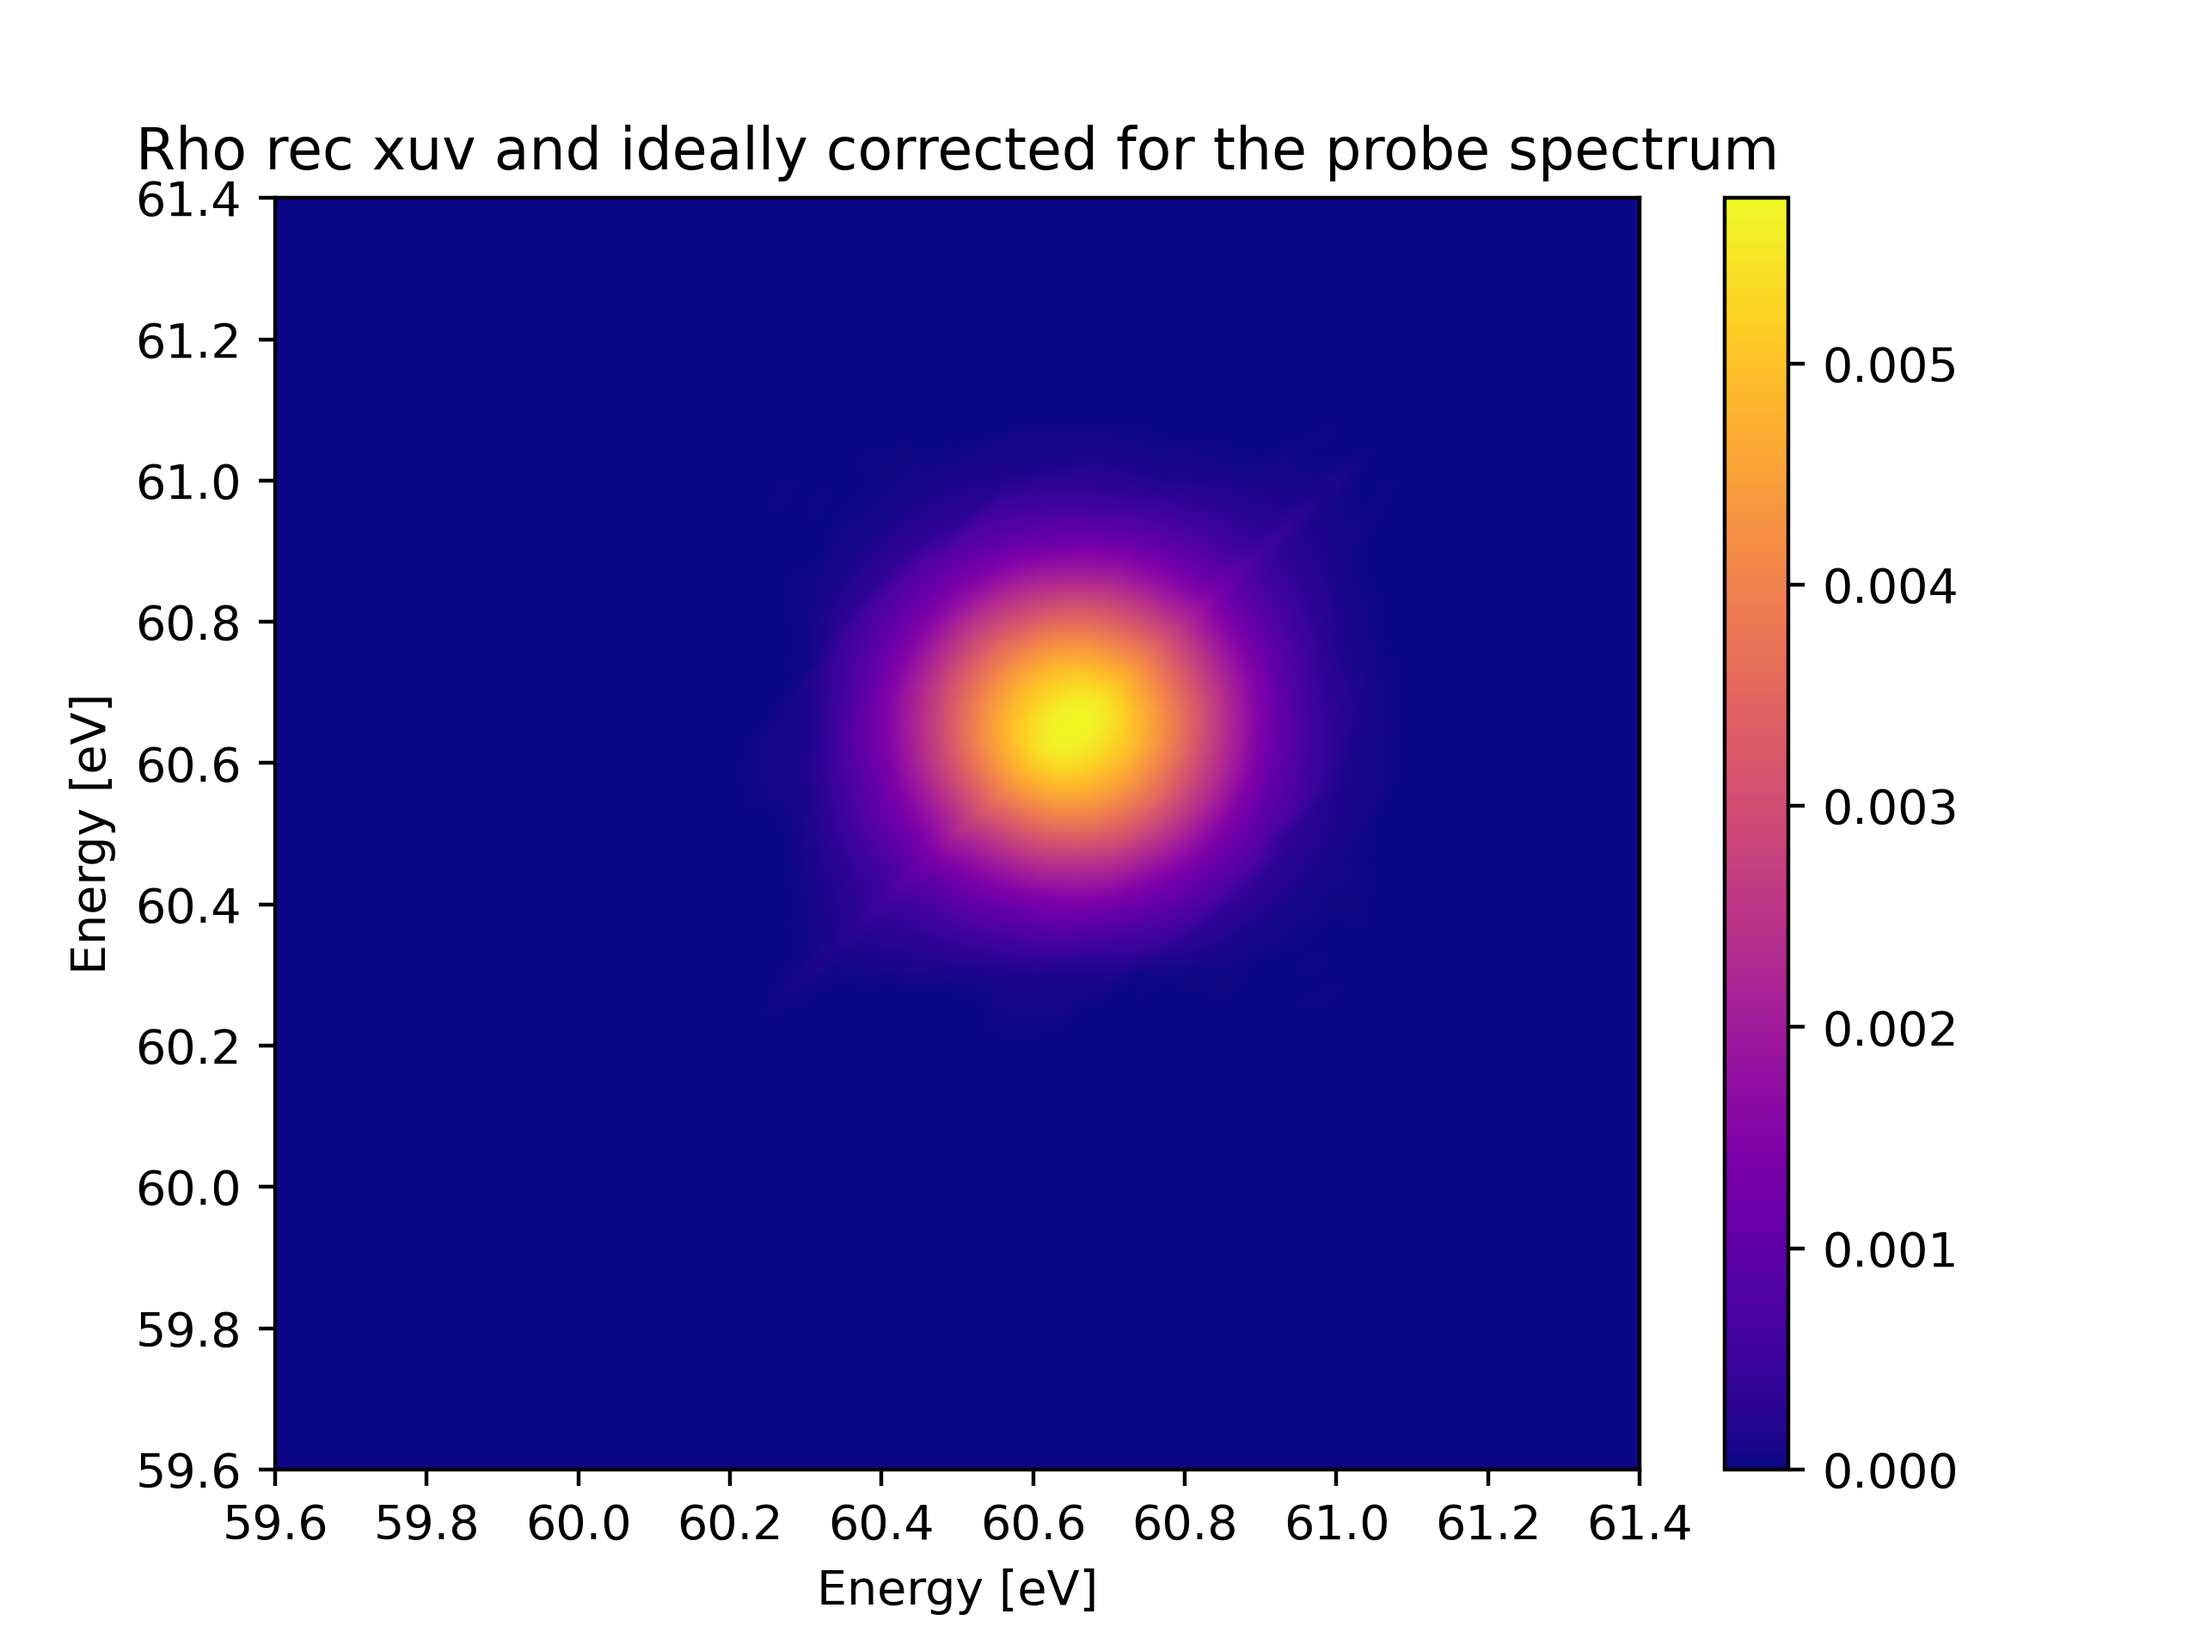
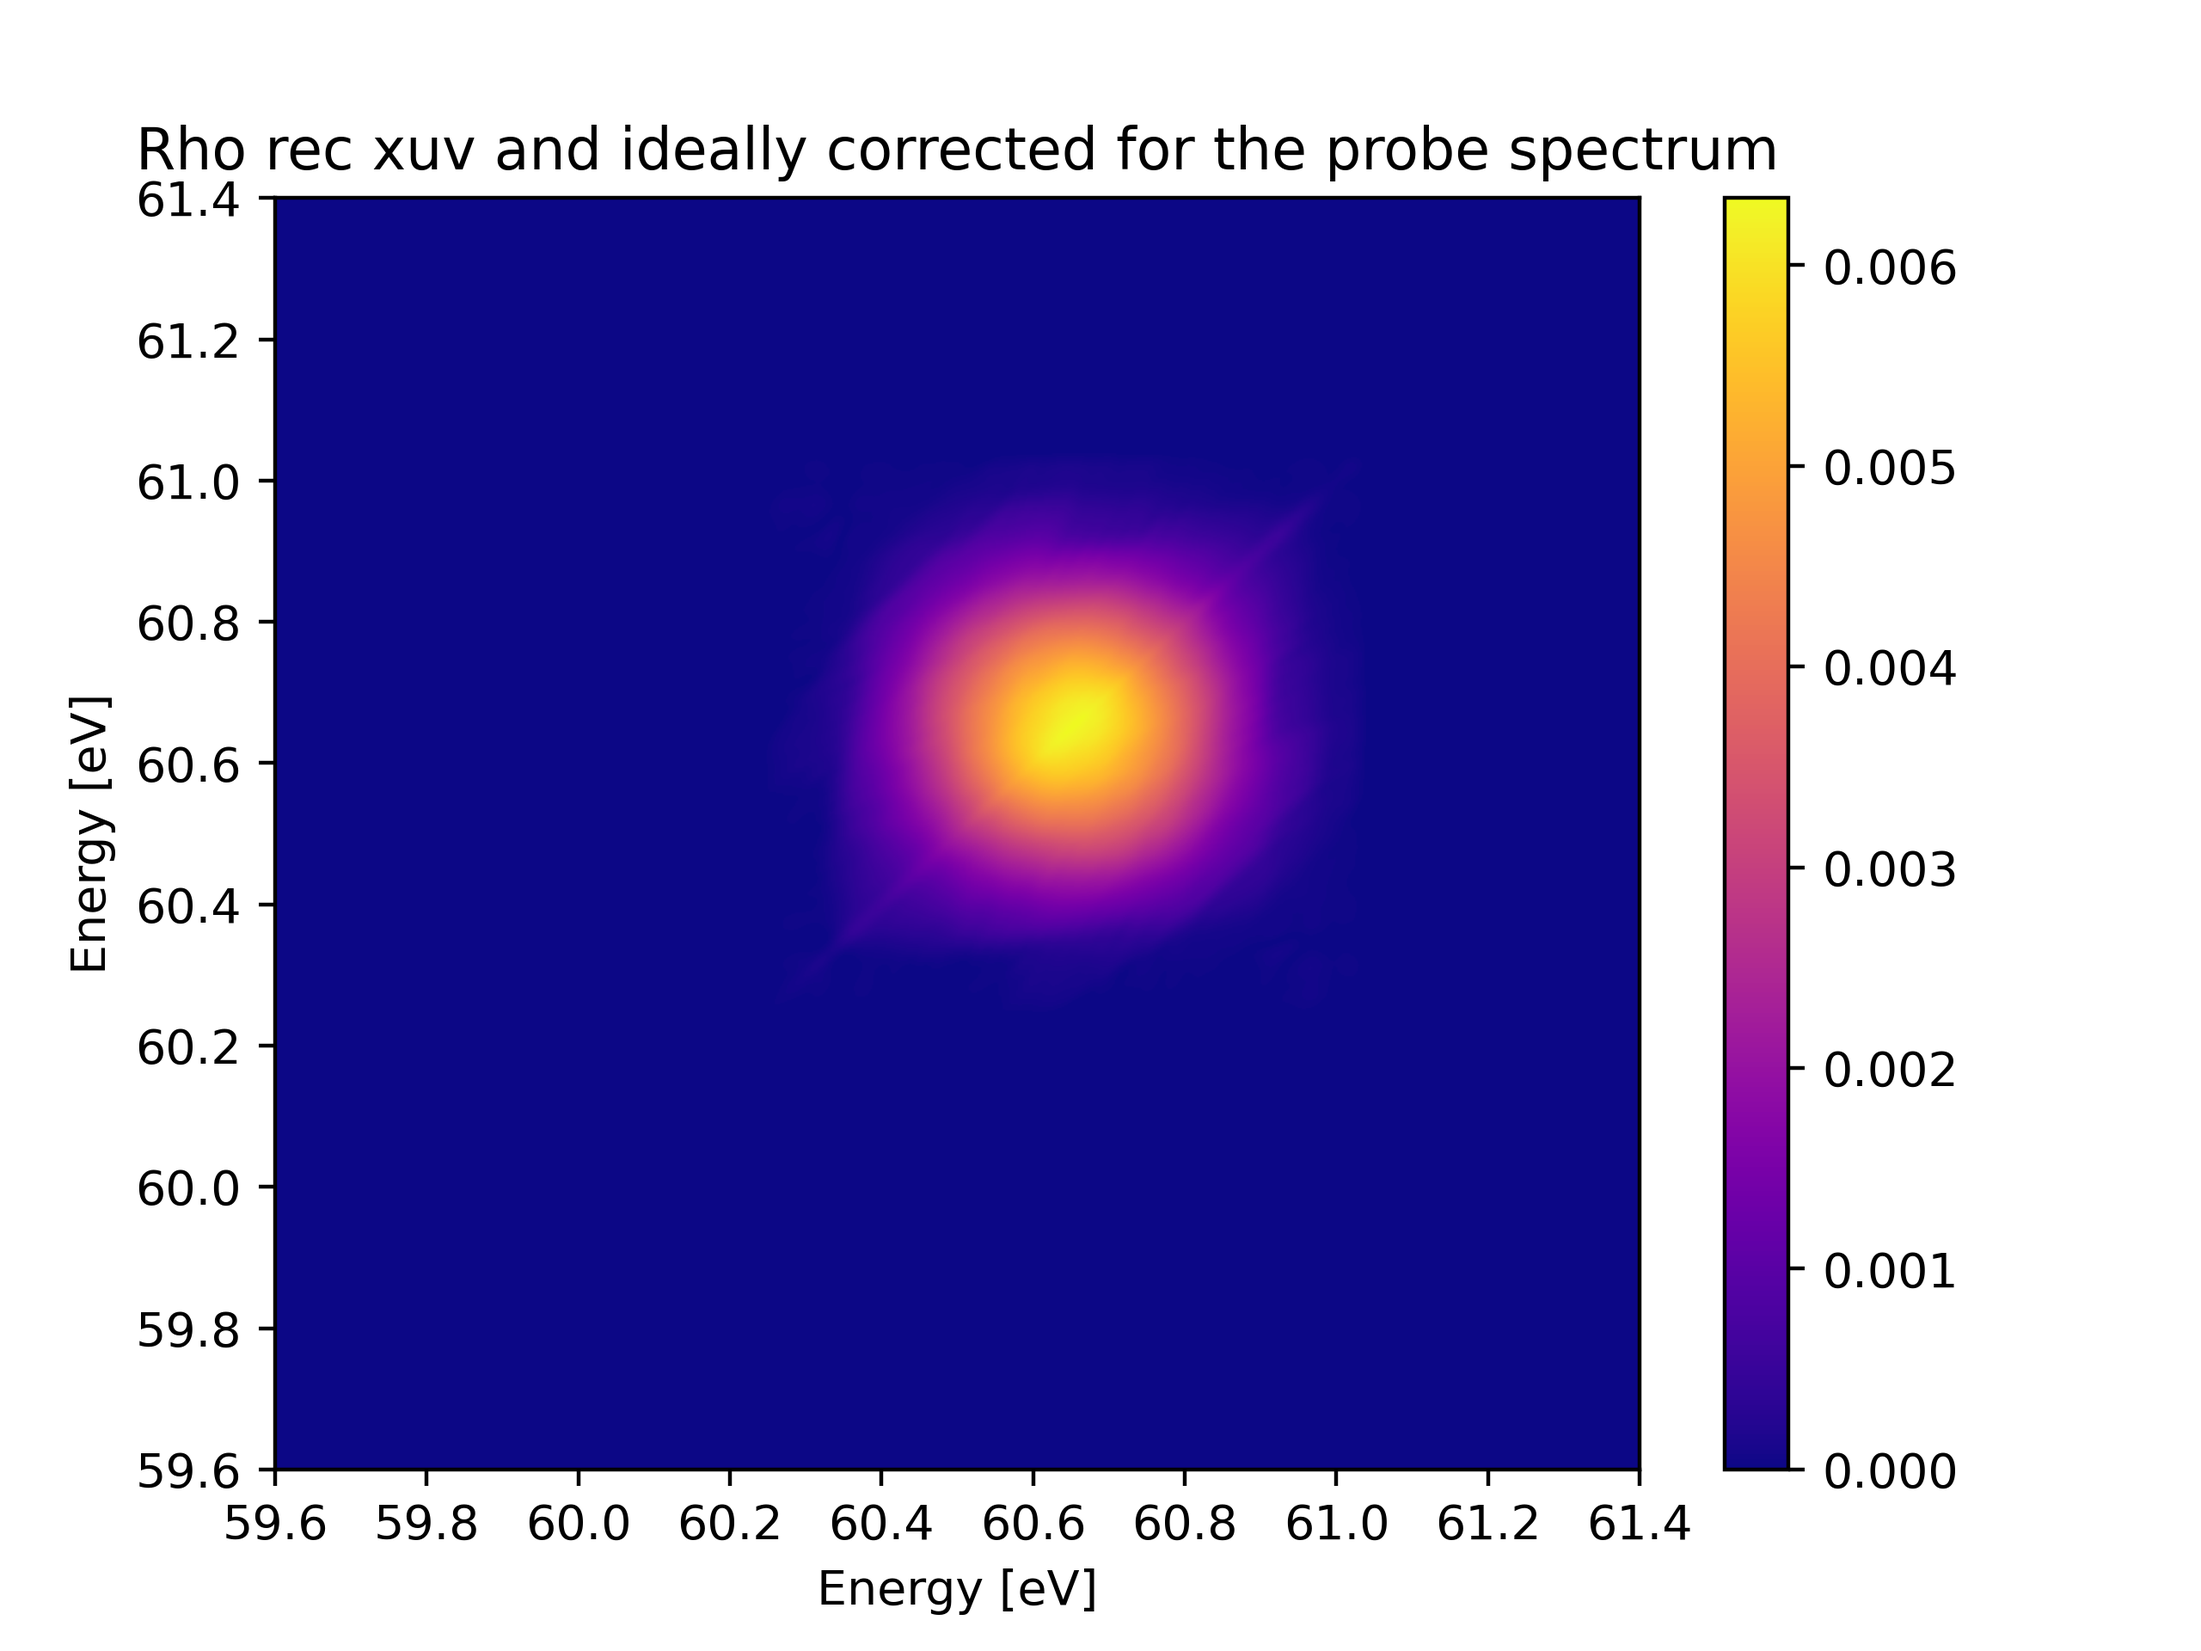
scan done

diff --git a/WF_pipeline_scan.py b/WF_pipeline_scan.py
@@ -940,18 +940,27 @@ def fidelity(rho, sigma):
 ### FIELD PARAMETERS
 ###
 
-alpha_range = np.array([0.005,0.01,0.02,0.04,0.08,0.16,0.32,0.64])
-N_T_range = np.array([250,300,400,500,700,900,1100])
+# alpha_range = np.array([0.005,0.01,0.02,0.04,0.08,0.16,0.32,0.64])
+# N_T_range = np.array([250,300,400,500,700,900,1100])
+
+alpha_range = np.linspace(0.01,0.49,25)
+N_T_range = np.linspace(250,1000,16).astype(int)
+
+print(alpha_range)
+print(N_T_range)
 
 a,nt = np.meshgrid(alpha_range,N_T_range)
 
-final_rec_sqerr = np.zeros_like(a)
-fid1s = np.zeros_like(a)
-fid2s = np.zeros_like(a)
-fid3s = np.zeros_like(a)
-fid4s = np.zeros_like(a)
+final_rec_sqerr = np.load('scans/sqerrs.npy')
+fid1s = np.load('scans/fid1s.npy')
+fid2s = np.load('scans/fid2s.npy')
+fid3s = np.load('scans/fid3s.npy')
+fid4s = np.load('scans/fid4s.npy')
 
 for i_nt, N_T in enumerate(N_T_range):
+    if N_T < 800:
+        continue
+
     for i_a, alpha in enumerate(alpha_range):
         # try:
             E_lo = 60.0
@@ -1216,7 +1225,7 @@ for i_nt, N_T in enumerate(N_T_range):
             sig_probe_reconstructed = sig_probe_reconstructed + b_est
 
             sp_rec, rec_sqerr = reconstruct_WirtFlow(sig_probe_reconstructed,sp_probe,sp_xuv_meas_sig_fit,om_probe,om_xuv,T,b_est,
-                                                     n_power_iter=50,n_main_iter=3000,ifplot=50,median_regval=4,lastmax_margin=np.sqrt(alpha)*700,
+                                                     n_power_iter=50,n_main_iter=3000,ifplot=50,median_regval=4,lastmax_margin=np.sqrt(alpha)*700*np.sqrt(N_T/350),
                                                      ifwait=False,alph=alpha,nt=N_T)
             np.save(file,sp_rec)
 
